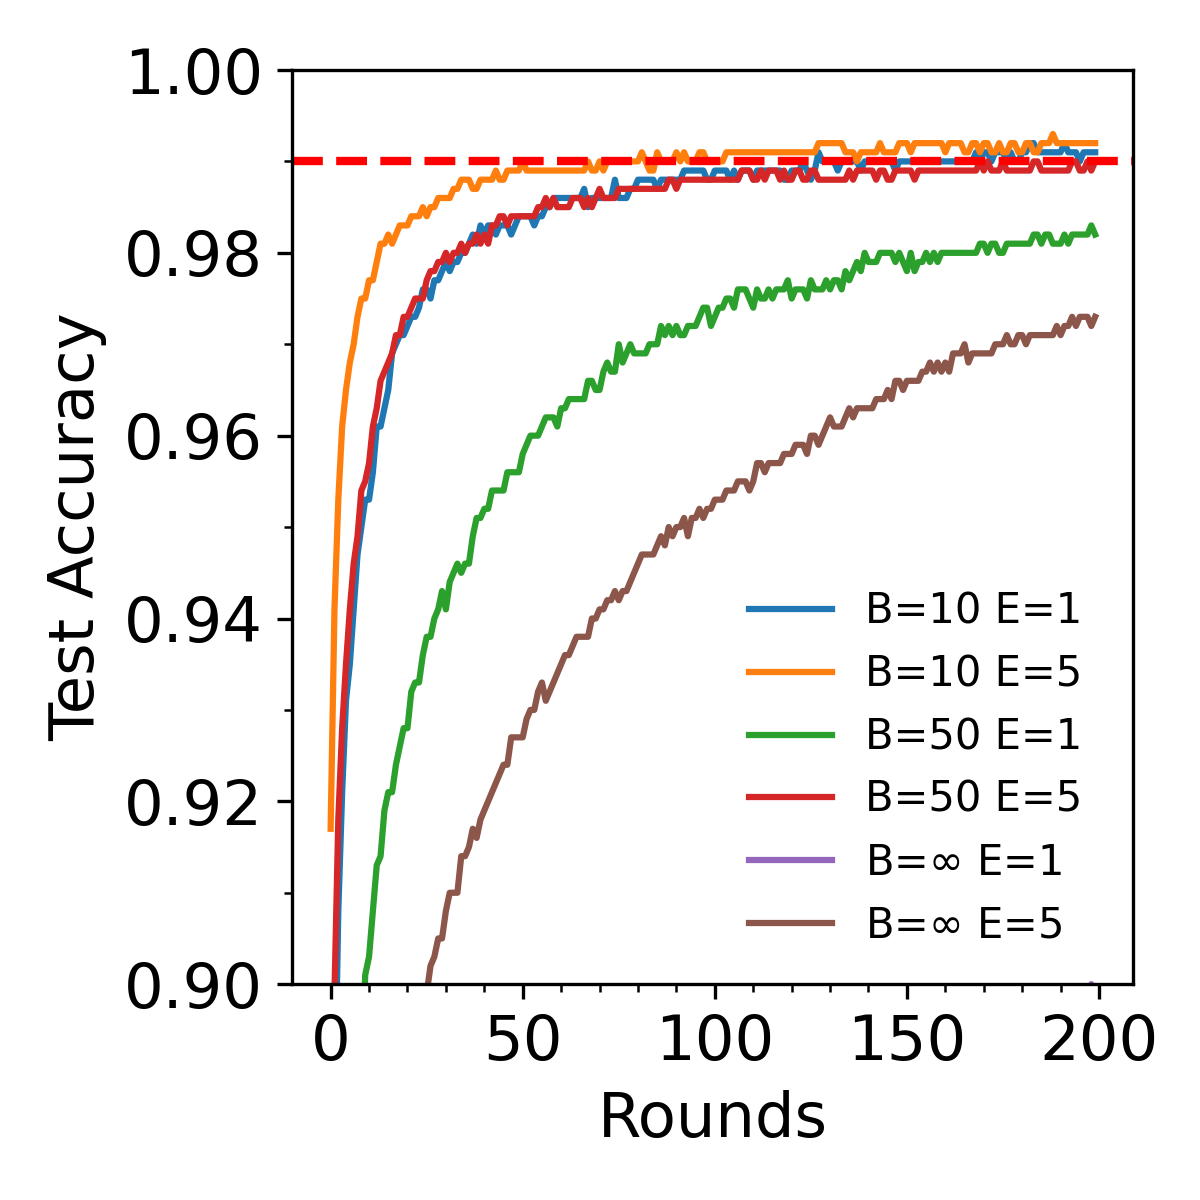
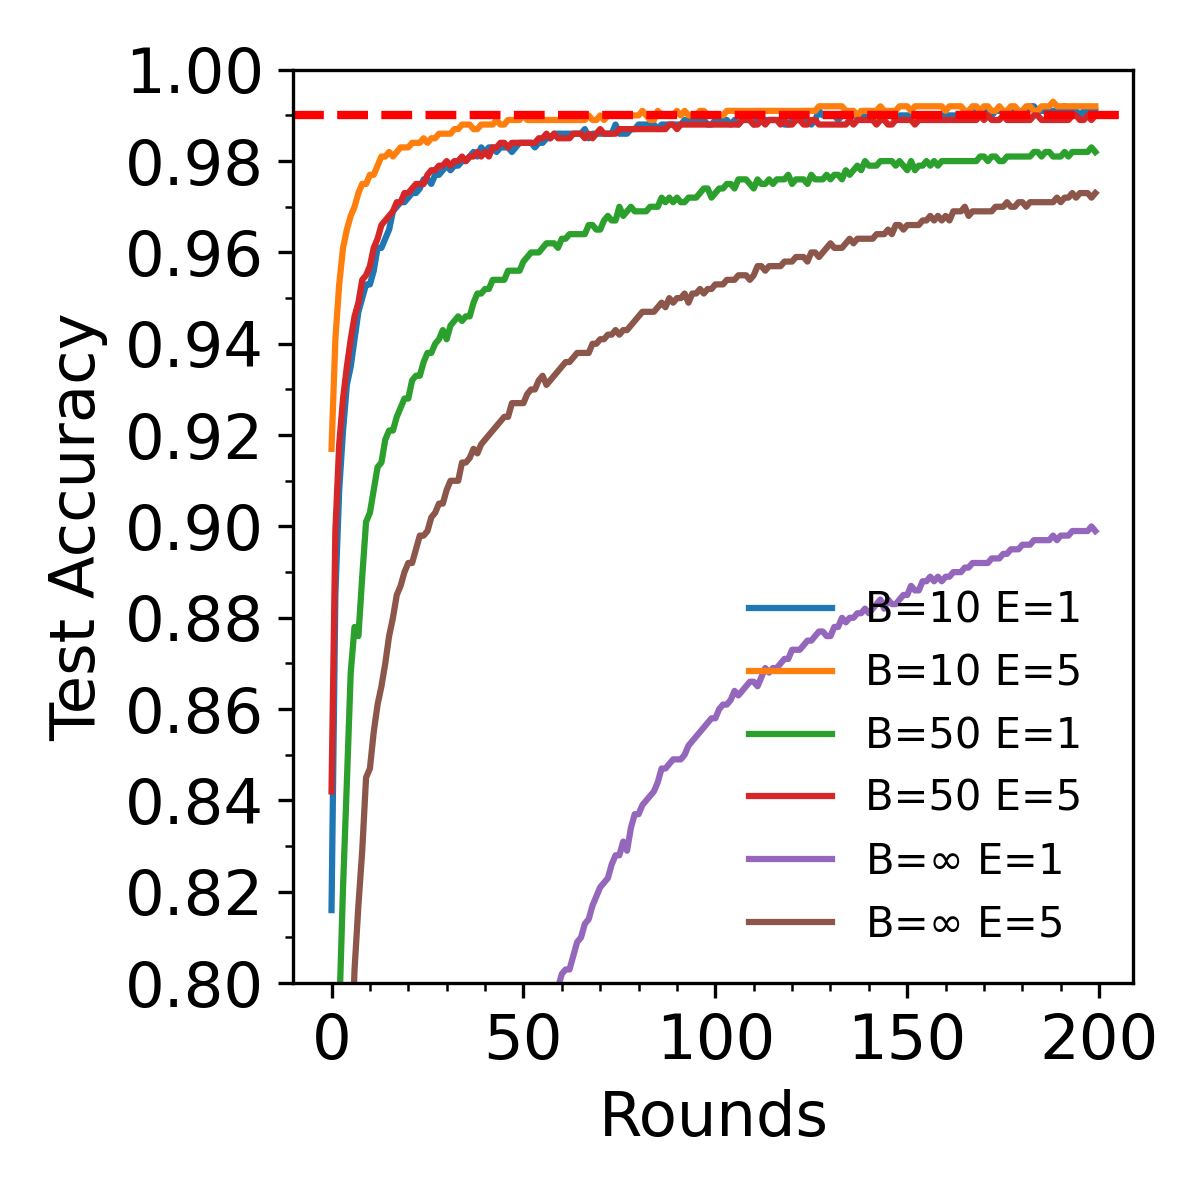
update yxlim

diff --git a/make_plots.py b/make_plots.py
@@ -30,7 +30,7 @@ for B in [10,50,600]:
 
 
 ax.axhline(y=0.99,linestyle='dashed',color='red',linewidth=2)
-ax.set_ylim([0.9,1])
+ax.set_ylim([0.8,1])
 ax.set_xlabel('Rounds')
 ax.set_ylabel('Test Accuracy')
 set_axis_properties(ax)
@@ -41,7 +41,9 @@ for item in ([ax.title, ax.xaxis.label, ax.yaxis.label] +
               ax.get_xticklabels() + ax.get_yticklabels()):
     item.set_fontsize(15)
 plt.tight_layout()
-fig.savefig('save/cnn-iid.pdf',dpi=300)
+fig.savefig('save/cnn-iid.pdf')
+fig.savefig('save/cnn-iid.png',dpi=300)
+
 
 ###- CNN with non-IID####
 
@@ -62,7 +64,7 @@ for B in [10,50]:
             continue
 
 ax.axhline(y=0.99,linestyle='dashed',color='red',linewidth=2)
-ax.set_ylim([0.9,1])
+ax.set_ylim([0.8,1])
 # ax.set_xlim([0,1])
 ax.set_xlabel('Rounds')
 ax.set_ylabel('Test Accuracy')
@@ -74,7 +76,9 @@ for item in ([ax.title, ax.xaxis.label, ax.yaxis.label] +
               ax.get_xticklabels() + ax.get_yticklabels()):
     item.set_fontsize(15)
 plt.tight_layout()
-fig.savefig('save/cnn-non-iid.pdf',dpi=300)
+fig.savefig('save/cnn-non-iid.pdf')
+fig.savefig('save/cnn-non-iid.png',dpi=300)
+
 
 
 fig,ax=plt.subplots(figsize=(4,4),ncols=1,nrows=1)
@@ -93,7 +97,7 @@ ax.plot(range(200),df_mlp['test_acc'],label='mlp B=10 E=5')
 
     # ax.plot(t[:800],rir_file[:800],color='red')
 ax.axhline(y=0.99,linestyle='dashed',color='red',linewidth=2)
-ax.set_ylim([0.9,1])
+ax.set_ylim([0.8,1])
 # ax.set_xlim([0,1])
 ax.set_xlabel('Rounds')
 ax.set_ylabel('Test Accuracy')
@@ -105,4 +109,5 @@ for item in ([ax.title, ax.xaxis.label, ax.yaxis.label] +
               ax.get_xticklabels() + ax.get_yticklabels()):
     item.set_fontsize(15)
 plt.tight_layout()
-fig.savefig('save/cnn-mlp.pdf',dpi=300)
+fig.savefig('save/cnn-mlp.pdf')
+fig.savefig('save/cnn-mlp.png',dpi=300)
